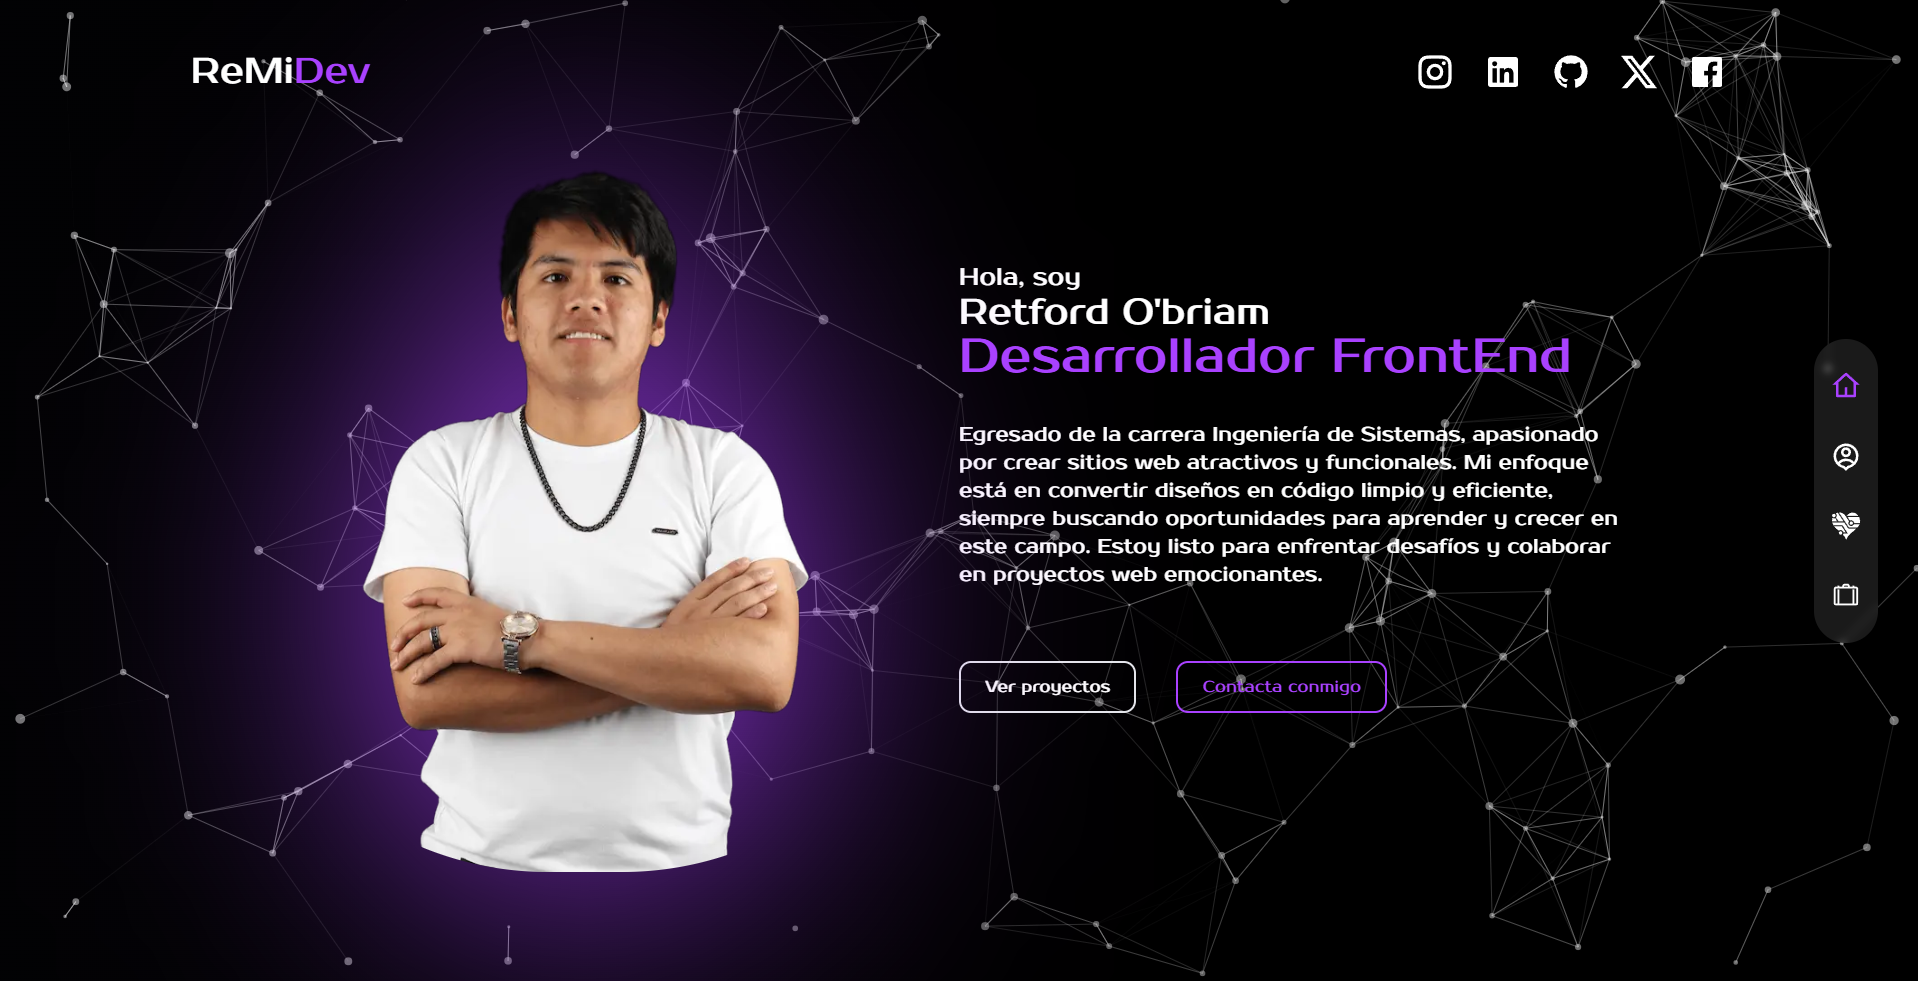
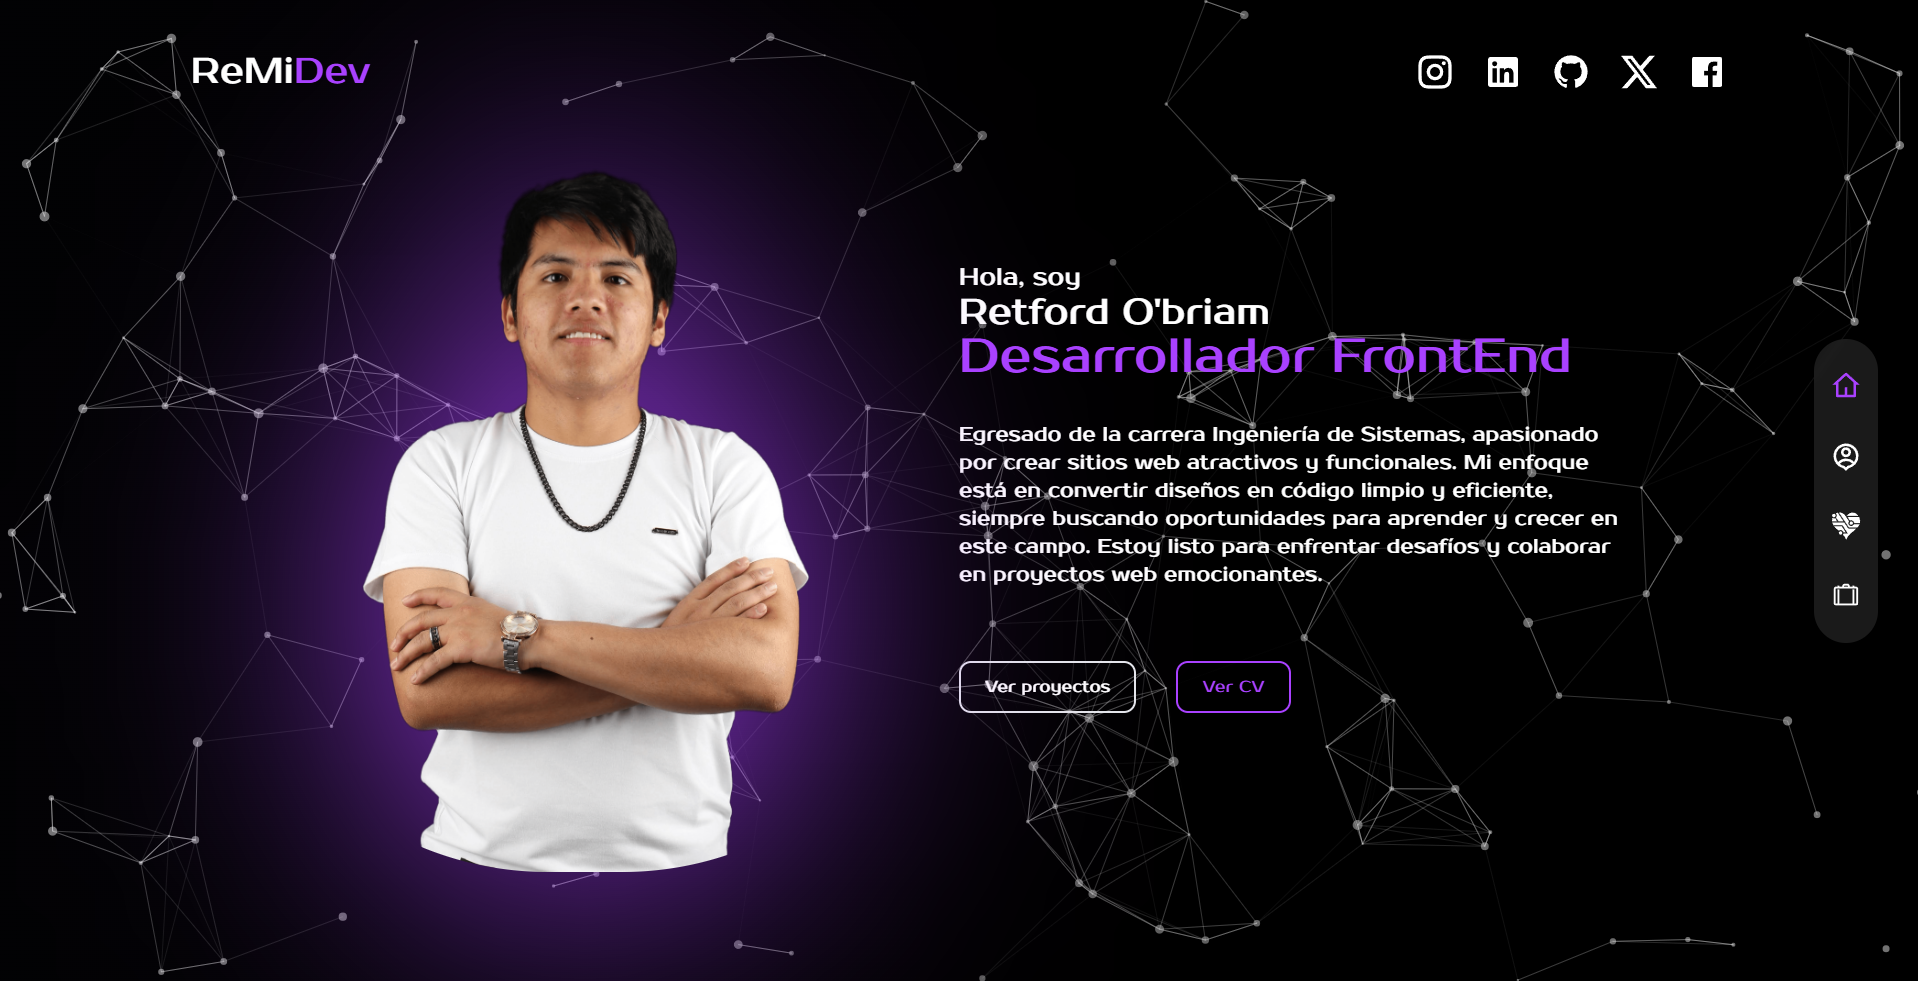
removed w-full

diff --git a/src/components/Circle/Circle.tsx b/src/components/Circle/Circle.tsx
@@ -5,7 +5,7 @@ import { motion } from 'framer-motion'
 export function Circle() {
     return (
         <motion.div variants={fadeIn('left', 0.5)} initial="hidden" animate="show" exit="hidden " className="bottom-0 2xl:bottom-[5%] 2xl:right-[5%] right-0 hidden md:inline-block md:fixed -z-20">
-            <img src="/assets/circles.png" width="350" height="350" className="w-full h-full" alt="Circle" />
+            <img src="/assets/circles.png" width="350" height="350" className="h-full" alt="Circle" />
         </motion.div>
     )
 }

diff --git a/src/components/AvatarWorks/AvatarWorks.tsx b/src/components/AvatarWorks/AvatarWorks.tsx
@@ -6,7 +6,7 @@ export function AvatarWorks() {
 
     return (
         <motion.div variants={fadeIn('left', 0.5)} initial="hidden" animate="show" exit="hidden" className="bottom-0 2xl:bottom-[5%] 2xl:left-[5%] left-0 hidden md:inline-block md:fixed -z-20">
-            <img src="/assets/avatar-works.png" alt="Avatar works" width="350" height="350" className="w-full h-full" />
+            <img src="/assets/avatar-works.png" alt="Avatar works" width="350" height="350" className="h-full" />
         </motion.div>
     )
 }

diff --git a/src/components/Avatar/Avatar.tsx b/src/components/Avatar/Avatar.tsx
@@ -5,7 +5,7 @@ import { motion } from 'framer-motion'
 export function Avatar() {
     return (
         <motion.div variants={fadeIn('left', 0.5)} initial="hidden" animate="show" exit="hidden" className="bottom-0 right-0 hidden md:inline-block md:fixed">
-            <img src="/assets/avatar-1.png" width="400" height="400" className="w-full h-full" alt="Particles" />
+            <img src="/assets/avatar-1.png" width="400" height="400" className="h-full" alt="Particles" />
         </motion.div>
     )
 }
